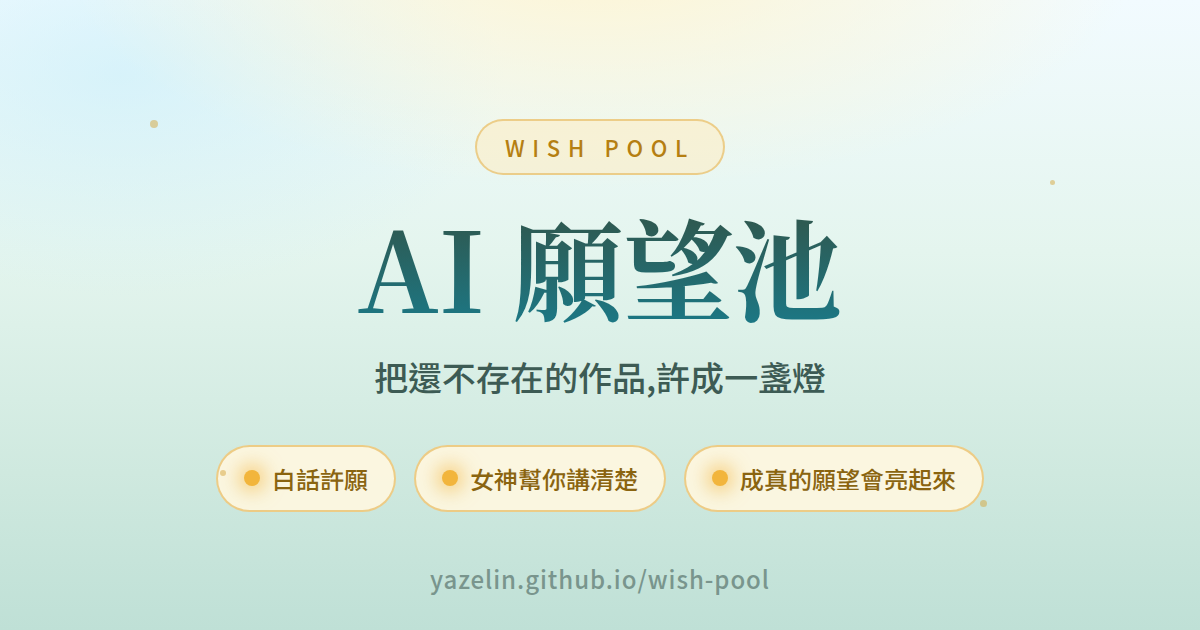
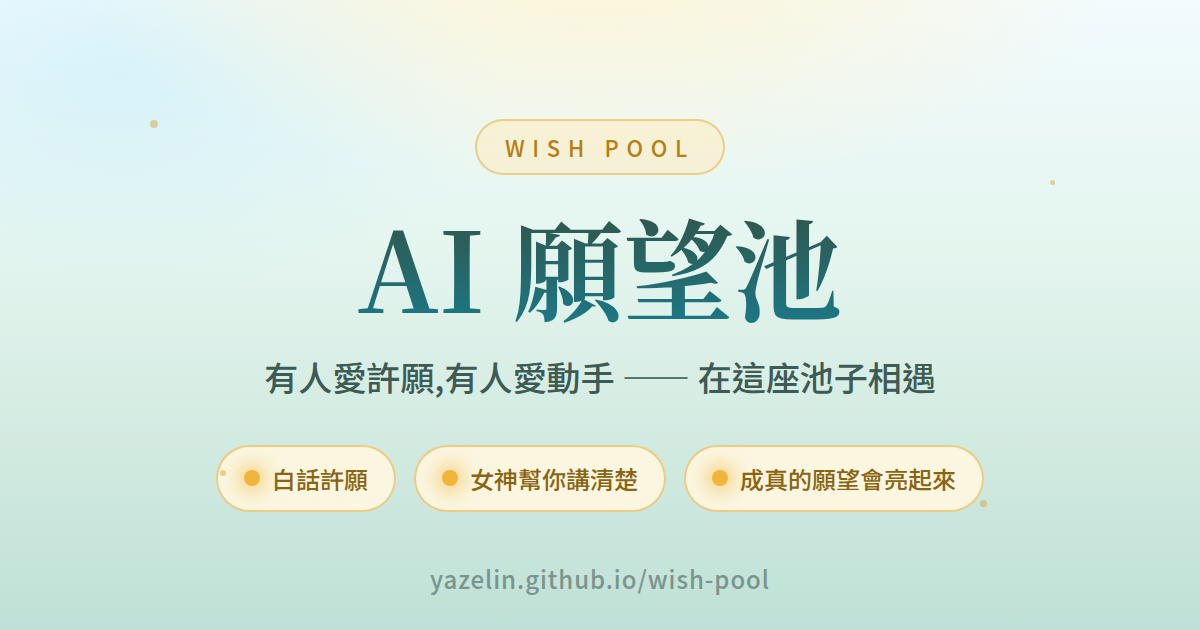
copy: hero/title/og 全換新標語 — 有人愛許願,有人愛動手;分享卡同步重生

Changed region(s): [[0.2158, 0.573, 0.8017, 0.6333]]

diff --git a/index.html b/index.html
@@ -3,10 +3,10 @@
 <head>
   <meta charset="utf-8">
   <meta name="viewport" content="width=device-width, initial-scale=1">
-  <title>AI 願望池 — 把還不存在的作品,許成一盞燈</title>
-  <meta name="description" content="白話許個願,AI 幫你講清楚;大家投許願幣、共鳴、動手實現。成真的願望會亮起來。">
+  <title>AI 願望池 — 有人愛許願,有人愛動手</title>
+  <meta name="description" content="有人愛許願,有人愛動手 —— 這座池子讓兩種人相遇。說得越清楚,越有機會實現;大家一起把願望養到亮起來。">
   <meta property="og:title" content="AI 願望池">
-  <meta property="og:description" content="把還不存在的作品,許成一盞燈。投許願幣、共鳴、一起實現。">
+  <meta property="og:description" content="有人愛許願,有人愛動手 —— 一起把願望養到亮起來。">
   <meta property="og:type" content="website">
   <meta property="og:url" content="https://yazelin.github.io/wish-pool/">
   <meta property="og:site_name" content="AI 願望池">
@@ -18,7 +18,7 @@
   <meta property="og:image:type" content="image/png">
   <meta name="twitter:card" content="summary_large_image">
   <meta name="twitter:title" content="AI 願望池">
-  <meta name="twitter:description" content="把還不存在的作品,許成一盞燈。投許願幣、共鳴、一起實現。">
+  <meta name="twitter:description" content="有人愛許願,有人愛動手 —— 一起把願望養到亮起來。">
   <meta name="twitter:image" content="https://yazelin.github.io/wish-pool/og.png">
   <link rel="canonical" href="https://yazelin.github.io/wish-pool/">
   <link rel="icon" type="image/svg+xml" href="favicon.svg">
@@ -44,7 +44,7 @@
     <header class="hero">
       <span class="kicker">Wish Pool</span>
       <h1>AI 願望池</h1>
-      <p>把還不存在的作品,許成一盞燈。<br>投許願幣、留下共鳴 —— 有緣人(或 AI)會把它實現。</p>
+      <p>有人愛許願,有人愛動手 —— 這座池子讓兩種人相遇。<br>說得越清楚,越有機會實現;大家一起把願望養到亮起來。</p>
     </header>
 
     <section id="starband-wrap" aria-label="成真的願望" style="display:none">